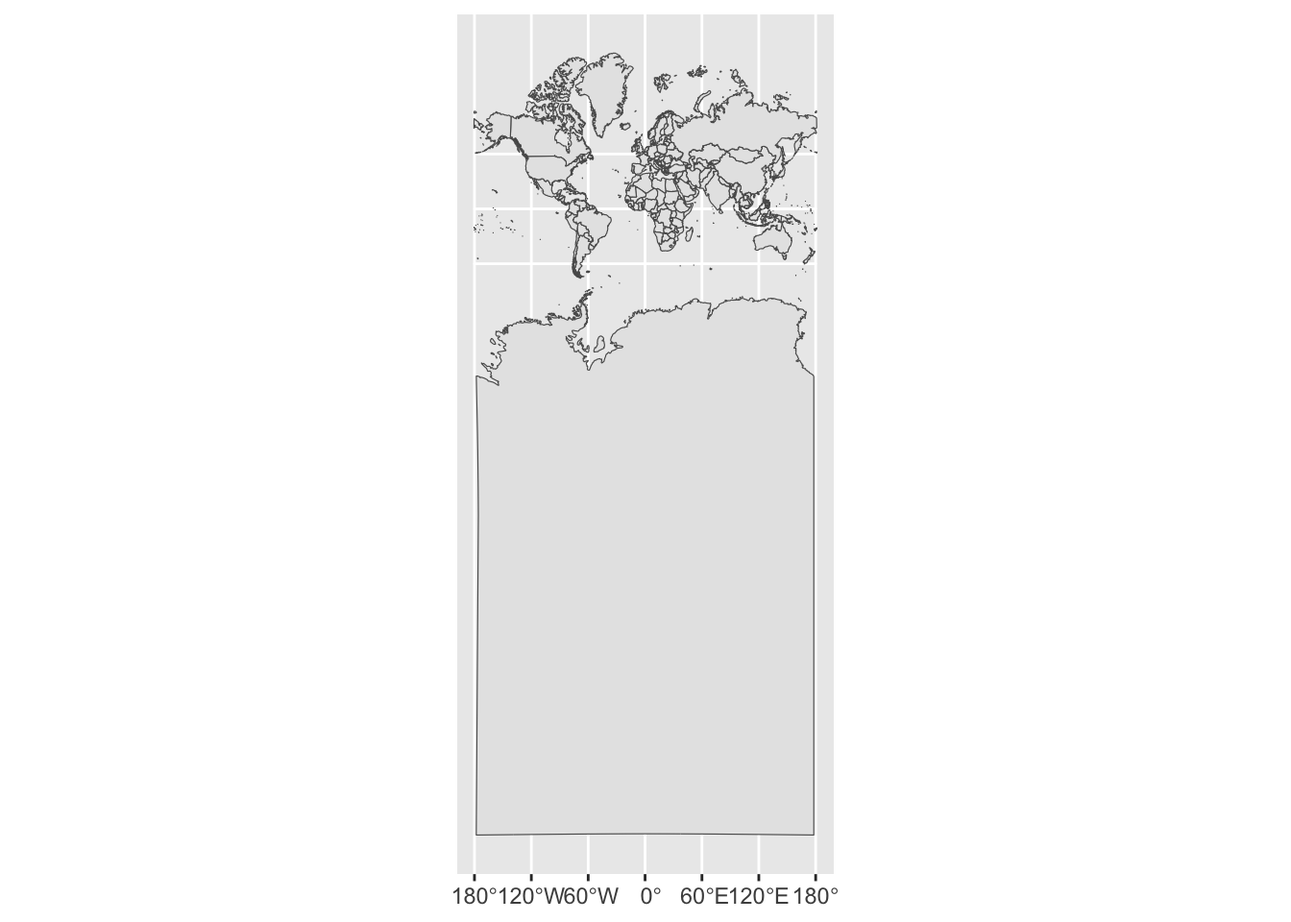
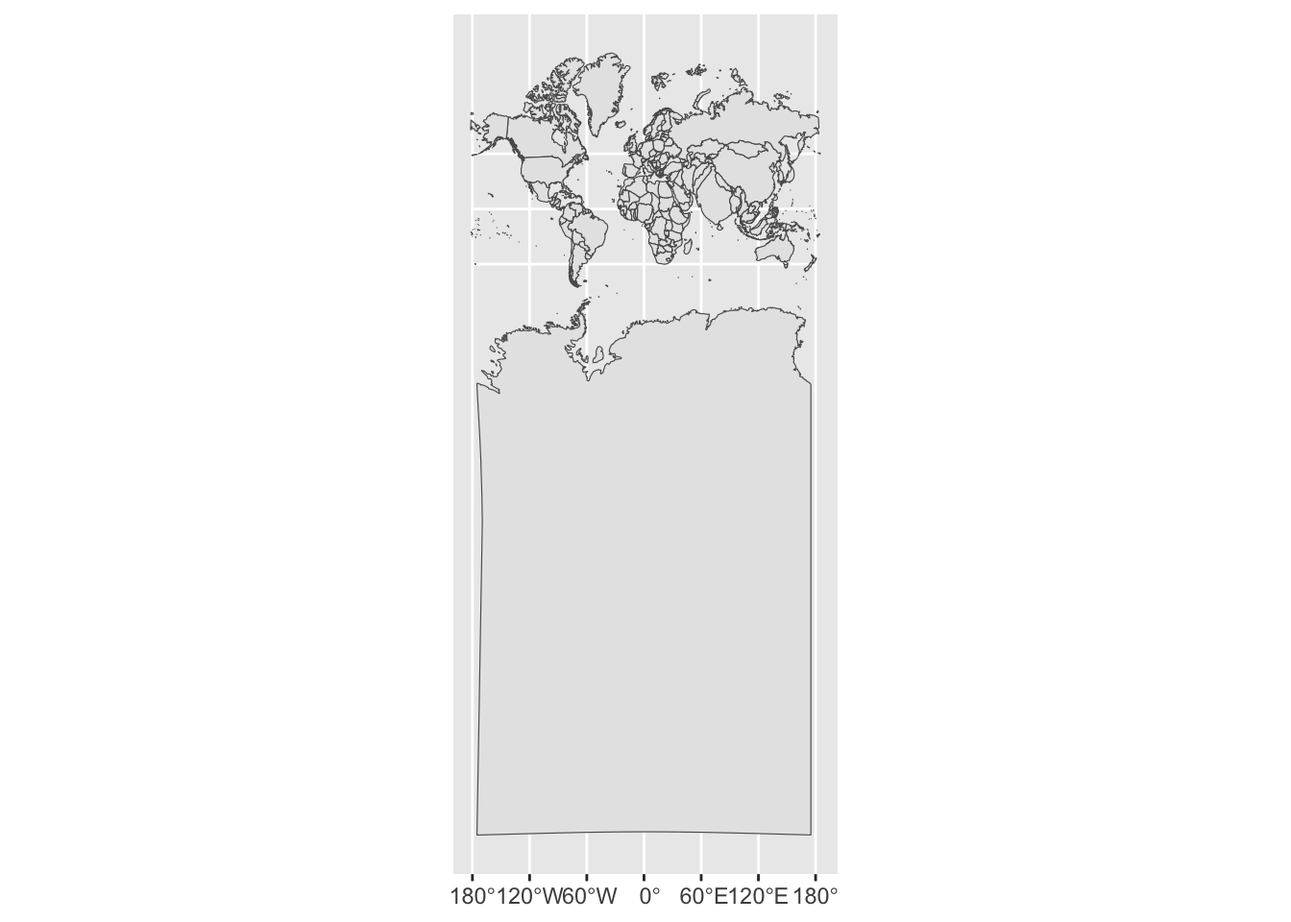
more iterations for cartogram

diff --git a/docs/cartogram.html b/docs/cartogram.html
@@ -370,13 +370,14 @@ pre > code.sourceCode > span > a:first-child::before { text-decoration: underlin
    
   <ul>
   <li><a href="#call-libraries" id="toc-call-libraries" class="nav-link active" data-scroll-target="#call-libraries"><span class="header-section-number">17.1</span> Call Libraries</a></li>
-  <li><a href="#get-map-data-from-rnaturalearth" id="toc-get-map-data-from-rnaturalearth" class="nav-link" data-scroll-target="#get-map-data-from-rnaturalearth"><span class="header-section-number">17.2</span> Get Map Data From <code>rnaturalearth</code></a></li>
-  <li><a href="#make-a-basic-map" id="toc-make-a-basic-map" class="nav-link" data-scroll-target="#make-a-basic-map"><span class="header-section-number">17.3</span> Make A Basic Map</a></li>
-  <li><a href="#make-and-plot-the-cartogram" id="toc-make-and-plot-the-cartogram" class="nav-link" data-scroll-target="#make-and-plot-the-cartogram"><span class="header-section-number">17.4</span> Make And Plot The Cartogram</a>
+  <li><a href="#remove-scientific-notation" id="toc-remove-scientific-notation" class="nav-link" data-scroll-target="#remove-scientific-notation"><span class="header-section-number">17.2</span> Remove Scientific Notation</a></li>
+  <li><a href="#get-map-data-from-rnaturalearth" id="toc-get-map-data-from-rnaturalearth" class="nav-link" data-scroll-target="#get-map-data-from-rnaturalearth"><span class="header-section-number">17.3</span> Get Map Data From <code>rnaturalearth</code></a></li>
+  <li><a href="#make-a-basic-map" id="toc-make-a-basic-map" class="nav-link" data-scroll-target="#make-a-basic-map"><span class="header-section-number">17.4</span> Make A Basic Map</a></li>
+  <li><a href="#make-and-plot-the-cartogram" id="toc-make-and-plot-the-cartogram" class="nav-link" data-scroll-target="#make-and-plot-the-cartogram"><span class="header-section-number">17.5</span> Make And Plot The Cartogram</a>
   <ul class="collapse">
-  <li><a href="#make-the-cartogram-data" id="toc-make-the-cartogram-data" class="nav-link" data-scroll-target="#make-the-cartogram-data"><span class="header-section-number">17.4.1</span> Make The Cartogram Data</a></li>
-  <li><a href="#basic-cartogram" id="toc-basic-cartogram" class="nav-link" data-scroll-target="#basic-cartogram"><span class="header-section-number">17.4.2</span> Basic Cartogram</a></li>
-  <li><a href="#more-advanced-cartogram" id="toc-more-advanced-cartogram" class="nav-link" data-scroll-target="#more-advanced-cartogram"><span class="header-section-number">17.4.3</span> More Advanced Cartogram</a></li>
+  <li><a href="#make-the-cartogram-data" id="toc-make-the-cartogram-data" class="nav-link" data-scroll-target="#make-the-cartogram-data"><span class="header-section-number">17.5.1</span> Make The Cartogram Data</a></li>
+  <li><a href="#basic-cartogram" id="toc-basic-cartogram" class="nav-link" data-scroll-target="#basic-cartogram"><span class="header-section-number">17.5.2</span> Basic Cartogram</a></li>
+  <li><a href="#more-advanced-cartogram" id="toc-more-advanced-cartogram" class="nav-link" data-scroll-target="#more-advanced-cartogram"><span class="header-section-number">17.5.3</span> More Advanced Cartogram</a></li>
   </ul></li>
   </ul>
 <div class="toc-actions"><ul><li><a href="https://github.com/agrogan1/mapping/issues/new" class="toc-action"><i class="bi bi-github"></i>Report an issue</a></li></ul></div></nav>
@@ -425,71 +426,77 @@ pre > code.sourceCode > span > a:first-child::before { text-decoration: underlin
 </details>
 </div>
 </section>
-<section id="get-map-data-from-rnaturalearth" class="level2" data-number="17.2">
-<h2 data-number="17.2" class="anchored" data-anchor-id="get-map-data-from-rnaturalearth"><span class="header-section-number">17.2</span> Get Map Data From <code>rnaturalearth</code></h2>
+<section id="remove-scientific-notation" class="level2" data-number="17.2">
+<h2 data-number="17.2" class="anchored" data-anchor-id="remove-scientific-notation"><span class="header-section-number">17.2</span> Remove Scientific Notation</h2>
+<div class="cell">
+<div class="sourceCode cell-code" id="cb2"><pre class="sourceCode r code-with-copy"><code class="sourceCode r"><span id="cb2-1"><a href="#cb2-1" aria-hidden="true" tabindex="-1"></a><span class="fu">options</span>(<span class="at">scipen =</span> <span class="dv">999</span>) <span class="co"># high 'penalty' for scientific notation</span></span></code><button title="Copy to Clipboard" class="code-copy-button"><i class="bi"></i></button></pre></div>
+</div>
+</section>
+<section id="get-map-data-from-rnaturalearth" class="level2" data-number="17.3">
+<h2 data-number="17.3" class="anchored" data-anchor-id="get-map-data-from-rnaturalearth"><span class="header-section-number">17.3</span> Get Map Data From <code>rnaturalearth</code></h2>
 <div class="cell">
 <details class="code-fold">
 <summary>Show the code</summary>
-<div class="sourceCode cell-code" id="cb2"><pre class="sourceCode r code-with-copy"><code class="sourceCode r"><span id="cb2-1"><a href="#cb2-1" aria-hidden="true" tabindex="-1"></a>mapdata <span class="ot">&lt;-</span> <span class="fu">ne_countries</span>(<span class="at">scale =</span> <span class="st">"medium"</span>, <span class="co"># medium scale</span></span>
-<span id="cb2-2"><a href="#cb2-2" aria-hidden="true" tabindex="-1"></a>                        <span class="at">returnclass =</span> <span class="st">"sf"</span>)  <span class="co"># as sf object</span></span></code><button title="Copy to Clipboard" class="code-copy-button"><i class="bi"></i></button></pre></div>
+<div class="sourceCode cell-code" id="cb3"><pre class="sourceCode r code-with-copy"><code class="sourceCode r"><span id="cb3-1"><a href="#cb3-1" aria-hidden="true" tabindex="-1"></a>mapdata <span class="ot">&lt;-</span> <span class="fu">ne_countries</span>(<span class="at">scale =</span> <span class="st">"medium"</span>, <span class="co"># medium scale</span></span>
+<span id="cb3-2"><a href="#cb3-2" aria-hidden="true" tabindex="-1"></a>                        <span class="at">returnclass =</span> <span class="st">"sf"</span>)  <span class="co"># as sf object</span></span></code><button title="Copy to Clipboard" class="code-copy-button"><i class="bi"></i></button></pre></div>
 </details>
 </div>
 </section>
-<section id="make-a-basic-map" class="level2" data-number="17.3">
-<h2 data-number="17.3" class="anchored" data-anchor-id="make-a-basic-map"><span class="header-section-number">17.3</span> Make A Basic Map</h2>
+<section id="make-a-basic-map" class="level2" data-number="17.4">
+<h2 data-number="17.4" class="anchored" data-anchor-id="make-a-basic-map"><span class="header-section-number">17.4</span> Make A Basic Map</h2>
 <p>We make a basic map, reading it into an object called <code>mymap.</code> We then <em>replay</em> <code>mymap.</code></p>
 <div class="cell">
 <details class="code-fold">
 <summary>Show the code</summary>
-<div class="sourceCode cell-code" id="cb3"><pre class="sourceCode r code-with-copy"><code class="sourceCode r"><span id="cb3-1"><a href="#cb3-1" aria-hidden="true" tabindex="-1"></a>mymap <span class="ot">&lt;-</span> <span class="fu">ggplot</span>(mapdata) <span class="sc">+</span> <span class="co"># the data I am mapping</span></span>
-<span id="cb3-2"><a href="#cb3-2" aria-hidden="true" tabindex="-1"></a>  <span class="fu">geom_sf</span>() <span class="co"># the geometry I am using</span></span>
-<span id="cb3-3"><a href="#cb3-3" aria-hidden="true" tabindex="-1"></a></span>
-<span id="cb3-4"><a href="#cb3-4" aria-hidden="true" tabindex="-1"></a>mymap <span class="co"># replay my map</span></span></code><button title="Copy to Clipboard" class="code-copy-button"><i class="bi"></i></button></pre></div>
+<div class="sourceCode cell-code" id="cb4"><pre class="sourceCode r code-with-copy"><code class="sourceCode r"><span id="cb4-1"><a href="#cb4-1" aria-hidden="true" tabindex="-1"></a>mymap <span class="ot">&lt;-</span> <span class="fu">ggplot</span>(mapdata) <span class="sc">+</span> <span class="co"># the data I am mapping</span></span>
+<span id="cb4-2"><a href="#cb4-2" aria-hidden="true" tabindex="-1"></a>  <span class="fu">geom_sf</span>() <span class="co"># the geometry I am using</span></span>
+<span id="cb4-3"><a href="#cb4-3" aria-hidden="true" tabindex="-1"></a></span>
+<span id="cb4-4"><a href="#cb4-4" aria-hidden="true" tabindex="-1"></a>mymap <span class="co"># replay my map</span></span></code><button title="Copy to Clipboard" class="code-copy-button"><i class="bi"></i></button></pre></div>
 </details>
 <div class="cell-output-display">
 <div>
 <figure class="figure">
-<p><a href="cartogram_files/figure-html/unnamed-chunk-3-1.png" class="lightbox" data-gallery="quarto-lightbox-gallery-1"><img src="cartogram_files/figure-html/unnamed-chunk-3-1.png" class="img-fluid figure-img" width="672"></a></p>
+<p><a href="cartogram_files/figure-html/unnamed-chunk-4-1.png" class="lightbox" data-gallery="quarto-lightbox-gallery-1"><img src="cartogram_files/figure-html/unnamed-chunk-4-1.png" class="img-fluid figure-img" width="672"></a></p>
 </figure>
 </div>
 </div>
 </div>
 </section>
-<section id="make-and-plot-the-cartogram" class="level2" data-number="17.4">
-<h2 data-number="17.4" class="anchored" data-anchor-id="make-and-plot-the-cartogram"><span class="header-section-number">17.4</span> Make And Plot The Cartogram</h2>
-<section id="make-the-cartogram-data" class="level3" data-number="17.4.1">
-<h3 data-number="17.4.1" class="anchored" data-anchor-id="make-the-cartogram-data"><span class="header-section-number">17.4.1</span> Make The Cartogram Data</h3>
+<section id="make-and-plot-the-cartogram" class="level2" data-number="17.5">
+<h2 data-number="17.5" class="anchored" data-anchor-id="make-and-plot-the-cartogram"><span class="header-section-number">17.5</span> Make And Plot The Cartogram</h2>
+<section id="make-the-cartogram-data" class="level3" data-number="17.5.1">
+<h3 data-number="17.5.1" class="anchored" data-anchor-id="make-the-cartogram-data"><span class="header-section-number">17.5.1</span> Make The Cartogram Data</h3>
 <div class="cell">
 <details class="code-fold">
 <summary>Show the code</summary>
-<div class="sourceCode cell-code" id="cb4"><pre class="sourceCode r code-with-copy"><code class="sourceCode r"><span id="cb4-1"><a href="#cb4-1" aria-hidden="true" tabindex="-1"></a>mapdata_merc <span class="ot">&lt;-</span> <span class="fu">st_transform</span>(mapdata, </span>
-<span id="cb4-2"><a href="#cb4-2" aria-hidden="true" tabindex="-1"></a>                             <span class="dv">3857</span>) <span class="co"># transform to Mercator</span></span>
-<span id="cb4-3"><a href="#cb4-3" aria-hidden="true" tabindex="-1"></a></span>
-<span id="cb4-4"><a href="#cb4-4" aria-hidden="true" tabindex="-1"></a><span class="co"># make a cartogram</span></span>
-<span id="cb4-5"><a href="#cb4-5" aria-hidden="true" tabindex="-1"></a><span class="co"># each iteration takes a LONG time; fewer iterations help</span></span>
-<span id="cb4-6"><a href="#cb4-6" aria-hidden="true" tabindex="-1"></a></span>
-<span id="cb4-7"><a href="#cb4-7" aria-hidden="true" tabindex="-1"></a>mapdata_cartogram <span class="ot">&lt;-</span> <span class="fu">cartogram_cont</span>(mapdata_merc, </span>
-<span id="cb4-8"><a href="#cb4-8" aria-hidden="true" tabindex="-1"></a>                                  <span class="st">"pop_est"</span>, </span>
-<span id="cb4-9"><a href="#cb4-9" aria-hidden="true" tabindex="-1"></a>                                  <span class="at">itermax =</span> <span class="dv">2</span>)</span></code><button title="Copy to Clipboard" class="code-copy-button"><i class="bi"></i></button></pre></div>
+<div class="sourceCode cell-code" id="cb5"><pre class="sourceCode r code-with-copy"><code class="sourceCode r"><span id="cb5-1"><a href="#cb5-1" aria-hidden="true" tabindex="-1"></a>mapdata_merc <span class="ot">&lt;-</span> <span class="fu">st_transform</span>(mapdata, </span>
+<span id="cb5-2"><a href="#cb5-2" aria-hidden="true" tabindex="-1"></a>                             <span class="dv">3857</span>) <span class="co"># transform to Mercator</span></span>
+<span id="cb5-3"><a href="#cb5-3" aria-hidden="true" tabindex="-1"></a></span>
+<span id="cb5-4"><a href="#cb5-4" aria-hidden="true" tabindex="-1"></a><span class="co"># make a cartogram</span></span>
+<span id="cb5-5"><a href="#cb5-5" aria-hidden="true" tabindex="-1"></a><span class="co"># each iteration takes a LONG time; fewer iterations help</span></span>
+<span id="cb5-6"><a href="#cb5-6" aria-hidden="true" tabindex="-1"></a></span>
+<span id="cb5-7"><a href="#cb5-7" aria-hidden="true" tabindex="-1"></a>mapdata_cartogram <span class="ot">&lt;-</span> <span class="fu">cartogram_cont</span>(mapdata_merc, </span>
+<span id="cb5-8"><a href="#cb5-8" aria-hidden="true" tabindex="-1"></a>                                  <span class="st">"pop_est"</span>, </span>
+<span id="cb5-9"><a href="#cb5-9" aria-hidden="true" tabindex="-1"></a>                                  <span class="at">itermax =</span> <span class="dv">5</span>)</span></code><button title="Copy to Clipboard" class="code-copy-button"><i class="bi"></i></button></pre></div>
 </details>
 <div class="cell-output cell-output-stderr">
-<pre><code>Warning in cartogram_cont.sf(mapdata_merc, "pop_est", itermax = 2): NA not
+<pre><code>Warning in cartogram_cont.sf(mapdata_merc, "pop_est", itermax = 5): NA not
 allowed in weight vector. Features will be removed from Shape.</code></pre>
 </div>
 </div>
 </section>
-<section id="basic-cartogram" class="level3" data-number="17.4.2">
-<h3 data-number="17.4.2" class="anchored" data-anchor-id="basic-cartogram"><span class="header-section-number">17.4.2</span> Basic Cartogram</h3>
+<section id="basic-cartogram" class="level3" data-number="17.5.2">
+<h3 data-number="17.5.2" class="anchored" data-anchor-id="basic-cartogram"><span class="header-section-number">17.5.2</span> Basic Cartogram</h3>
 <div class="cell">
 <details class="code-fold">
 <summary>Show the code</summary>
-<div class="sourceCode cell-code" id="cb6"><pre class="sourceCode r code-with-copy"><code class="sourceCode r"><span id="cb6-1"><a href="#cb6-1" aria-hidden="true" tabindex="-1"></a><span class="fu">ggplot</span>(mapdata_cartogram) <span class="sc">+</span> </span>
-<span id="cb6-2"><a href="#cb6-2" aria-hidden="true" tabindex="-1"></a>  <span class="fu">geom_sf</span>()</span></code><button title="Copy to Clipboard" class="code-copy-button"><i class="bi"></i></button></pre></div>
+<div class="sourceCode cell-code" id="cb7"><pre class="sourceCode r code-with-copy"><code class="sourceCode r"><span id="cb7-1"><a href="#cb7-1" aria-hidden="true" tabindex="-1"></a><span class="fu">ggplot</span>(mapdata_cartogram) <span class="sc">+</span> </span>
+<span id="cb7-2"><a href="#cb7-2" aria-hidden="true" tabindex="-1"></a>  <span class="fu">geom_sf</span>()</span></code><button title="Copy to Clipboard" class="code-copy-button"><i class="bi"></i></button></pre></div>
 </details>
 <div class="cell-output-display">
 <div>
 <figure class="figure">
-<p><a href="cartogram_files/figure-html/unnamed-chunk-5-1.png" class="lightbox" data-gallery="quarto-lightbox-gallery-2"><img src="cartogram_files/figure-html/unnamed-chunk-5-1.png" class="img-fluid figure-img" width="672"></a></p>
+<p><a href="cartogram_files/figure-html/unnamed-chunk-6-1.png" class="lightbox" data-gallery="quarto-lightbox-gallery-2"><img src="cartogram_files/figure-html/unnamed-chunk-6-1.png" class="img-fluid figure-img" width="672"></a></p>
 </figure>
 </div>
 </div>
@@ -504,30 +511,30 @@ Why Does Antarctica Look So Strange? How To Fix This?
 </div>
 </div>
 <div class="callout-body-container callout-body">
-<p>The key is to run this code to remove Antarctica.</p>
+<p>The key is to run this <code>dplyr</code> code to remove Antarctica.</p>
 <div class="cell">
 <details class="code-fold">
 <summary>Show the code</summary>
-<div class="sourceCode cell-code" id="cb7"><pre class="sourceCode r code-with-copy"><code class="sourceCode r"><span id="cb7-1"><a href="#cb7-1" aria-hidden="true" tabindex="-1"></a>mapdata_cartogram <span class="ot">&lt;-</span> mapdata_cartogram <span class="sc">%&gt;%</span> </span>
-<span id="cb7-2"><a href="#cb7-2" aria-hidden="true" tabindex="-1"></a>  dplyr<span class="sc">::</span><span class="fu">filter</span>(<span class="sc">!</span> continent <span class="sc">==</span> <span class="st">"Antarctica"</span>)</span></code><button title="Copy to Clipboard" class="code-copy-button"><i class="bi"></i></button></pre></div>
+<div class="sourceCode cell-code" id="cb8"><pre class="sourceCode r code-with-copy"><code class="sourceCode r"><span id="cb8-1"><a href="#cb8-1" aria-hidden="true" tabindex="-1"></a>mapdata_cartogram <span class="ot">&lt;-</span> mapdata_cartogram <span class="sc">%&gt;%</span> </span>
+<span id="cb8-2"><a href="#cb8-2" aria-hidden="true" tabindex="-1"></a>  dplyr<span class="sc">::</span><span class="fu">filter</span>(<span class="sc">!</span> continent <span class="sc">==</span> <span class="st">"Antarctica"</span>)</span></code><button title="Copy to Clipboard" class="code-copy-button"><i class="bi"></i></button></pre></div>
 </details>
 </div>
 </div>
 </div>
 </section>
-<section id="more-advanced-cartogram" class="level3" data-number="17.4.3">
-<h3 data-number="17.4.3" class="anchored" data-anchor-id="more-advanced-cartogram"><span class="header-section-number">17.4.3</span> More Advanced Cartogram</h3>
+<section id="more-advanced-cartogram" class="level3" data-number="17.5.3">
+<h3 data-number="17.5.3" class="anchored" data-anchor-id="more-advanced-cartogram"><span class="header-section-number">17.5.3</span> More Advanced Cartogram</h3>
 <div class="cell">
 <details class="code-fold">
 <summary>Show the code</summary>
-<div class="sourceCode cell-code" id="cb8"><pre class="sourceCode r code-with-copy"><code class="sourceCode r"><span id="cb8-1"><a href="#cb8-1" aria-hidden="true" tabindex="-1"></a><span class="fu">ggplot</span>(mapdata_cartogram) <span class="sc">+</span> </span>
-<span id="cb8-2"><a href="#cb8-2" aria-hidden="true" tabindex="-1"></a>  <span class="fu">geom_sf</span>(<span class="fu">aes</span>(<span class="at">fill =</span> pop_est)) <span class="sc">+</span> <span class="co"># fill is population estimate</span></span>
-<span id="cb8-3"><a href="#cb8-3" aria-hidden="true" tabindex="-1"></a>  <span class="fu">scale_fill_viridis_c</span>(<span class="at">name =</span> <span class="st">"population"</span>) <span class="co"># beautiful colors</span></span></code><button title="Copy to Clipboard" class="code-copy-button"><i class="bi"></i></button></pre></div>
+<div class="sourceCode cell-code" id="cb9"><pre class="sourceCode r code-with-copy"><code class="sourceCode r"><span id="cb9-1"><a href="#cb9-1" aria-hidden="true" tabindex="-1"></a><span class="fu">ggplot</span>(mapdata_cartogram) <span class="sc">+</span> </span>
+<span id="cb9-2"><a href="#cb9-2" aria-hidden="true" tabindex="-1"></a>  <span class="fu">geom_sf</span>(<span class="fu">aes</span>(<span class="at">fill =</span> pop_est)) <span class="sc">+</span> <span class="co"># fill is population estimate</span></span>
+<span id="cb9-3"><a href="#cb9-3" aria-hidden="true" tabindex="-1"></a>  <span class="fu">scale_fill_viridis_c</span>(<span class="at">name =</span> <span class="st">"population"</span>) <span class="co"># beautiful colors</span></span></code><button title="Copy to Clipboard" class="code-copy-button"><i class="bi"></i></button></pre></div>
 </details>
 <div class="cell-output-display">
 <div>
 <figure class="figure">
-<p><a href="cartogram_files/figure-html/unnamed-chunk-7-1.png" class="lightbox" data-gallery="quarto-lightbox-gallery-3"><img src="cartogram_files/figure-html/unnamed-chunk-7-1.png" class="img-fluid figure-img" width="672"></a></p>
+<p><a href="cartogram_files/figure-html/unnamed-chunk-8-1.png" class="lightbox" data-gallery="quarto-lightbox-gallery-3"><img src="cartogram_files/figure-html/unnamed-chunk-8-1.png" class="img-fluid figure-img" width="672"></a></p>
 </figure>
 </div>
 </div>
@@ -1082,7 +1089,7 @@ window.document.addEventListener("DOMContentLoaded", function (event) {
   </div>
 </nav>
 </div> <!-- /content -->
-<footer class="footer"><div class="nav-footer"><div class="nav-footer-center"><div class="toc-actions d-sm-block d-md-none"><ul><li><a href="https://github.com/agrogan1/mapping/issues/new" class="toc-action"><i class="bi bi-github"></i>Report an issue</a></li></ul></div></div></div></footer><script>var lightboxQuarto = GLightbox({"descPosition":"bottom","loop":false,"selector":".lightbox","openEffect":"zoom","closeEffect":"zoom"});
+<footer class="footer"><div class="nav-footer"><div class="nav-footer-center"><div class="toc-actions d-sm-block d-md-none"><ul><li><a href="https://github.com/agrogan1/mapping/issues/new" class="toc-action"><i class="bi bi-github"></i>Report an issue</a></li></ul></div></div></div></footer><script>var lightboxQuarto = GLightbox({"selector":".lightbox","closeEffect":"zoom","openEffect":"zoom","loop":false,"descPosition":"bottom"});
 window.onload = () => {
   lightboxQuarto.on('slide_before_load', (data) => {
     const { slideIndex, slideNode, slideConfig, player, trigger } = data;

diff --git a/docs/symbology.html b/docs/symbology.html
@@ -478,7 +478,7 @@ Note
 <div class="cell-output-display">
 <div class="quarto-figure quarto-figure-center">
 <figure class="figure">
-<p><a href="symbology_files/figure-html/unnamed-chunk-1-1.png" class="lightbox" data-glightbox="description: .lightbox-desc-1" data-gallery="quarto-lightbox-gallery-1" title="Heatmap Colors"><img src="symbology_files/figure-html/unnamed-chunk-1-1.png" class="img-fluid figure-img" width="672" alt="Heatmap Colors"></a></p>
+<p><a href="symbology_files/figure-html/unnamed-chunk-1-1.png" class="lightbox" data-gallery="quarto-lightbox-gallery-1" data-glightbox="description: .lightbox-desc-1" title="Heatmap Colors"><img src="symbology_files/figure-html/unnamed-chunk-1-1.png" class="img-fluid figure-img" width="672" alt="Heatmap Colors"></a></p>
 <figcaption>Heatmap Colors</figcaption>
 </figure>
 </div>
@@ -492,7 +492,7 @@ Note
 <div class="cell-output-display">
 <div class="quarto-figure quarto-figure-center">
 <figure class="figure">
-<p><a href="symbology_files/figure-html/unnamed-chunk-2-1.png" class="lightbox" data-glightbox="description: .lightbox-desc-2" data-gallery="quarto-lightbox-gallery-2" title="Topographical Colors"><img src="symbology_files/figure-html/unnamed-chunk-2-1.png" class="img-fluid figure-img" width="672" alt="Topographical Colors"></a></p>
+<p><a href="symbology_files/figure-html/unnamed-chunk-2-1.png" class="lightbox" data-gallery="quarto-lightbox-gallery-2" data-glightbox="description: .lightbox-desc-2" title="Topographical Colors"><img src="symbology_files/figure-html/unnamed-chunk-2-1.png" class="img-fluid figure-img" width="672" alt="Topographical Colors"></a></p>
 <figcaption>Topographical Colors</figcaption>
 </figure>
 </div>
@@ -506,7 +506,7 @@ Note
 <div class="cell-output-display">
 <div class="quarto-figure quarto-figure-center">
 <figure class="figure">
-<p><a href="symbology_files/figure-html/unnamed-chunk-3-1.png" class="lightbox" data-glightbox="description: .lightbox-desc-3" data-gallery="quarto-lightbox-gallery-3" title="Terrain Colors"><img src="symbology_files/figure-html/unnamed-chunk-3-1.png" class="img-fluid figure-img" width="672" alt="Terrain Colors"></a></p>
+<p><a href="symbology_files/figure-html/unnamed-chunk-3-1.png" class="lightbox" data-gallery="quarto-lightbox-gallery-3" data-glightbox="description: .lightbox-desc-3" title="Terrain Colors"><img src="symbology_files/figure-html/unnamed-chunk-3-1.png" class="img-fluid figure-img" width="672" alt="Terrain Colors"></a></p>
 <figcaption>Terrain Colors</figcaption>
 </figure>
 </div>
@@ -529,7 +529,7 @@ Note
 <div class="cell-output-display">
 <div class="quarto-figure quarto-figure-center">
 <figure class="figure">
-<p><a href="symbology_files/figure-html/unnamed-chunk-5-1.png" class="lightbox" data-glightbox="description: .lightbox-desc-4" data-gallery="quarto-lightbox-gallery-4" title="Blues Palette"><img src="symbology_files/figure-html/unnamed-chunk-5-1.png" class="img-fluid figure-img" width="672" alt="Blues Palette"></a></p>
+<p><a href="symbology_files/figure-html/unnamed-chunk-5-1.png" class="lightbox" data-gallery="quarto-lightbox-gallery-4" data-glightbox="description: .lightbox-desc-4" title="Blues Palette"><img src="symbology_files/figure-html/unnamed-chunk-5-1.png" class="img-fluid figure-img" width="672" alt="Blues Palette"></a></p>
 <figcaption>Blues Palette</figcaption>
 </figure>
 </div>
@@ -543,7 +543,7 @@ Note
 <div class="cell-output-display">
 <div class="quarto-figure quarto-figure-center">
 <figure class="figure">
-<p><a href="symbology_files/figure-html/unnamed-chunk-6-1.png" class="lightbox" data-glightbox="description: .lightbox-desc-5" data-gallery="quarto-lightbox-gallery-5" title="Spectral Palette"><img src="symbology_files/figure-html/unnamed-chunk-6-1.png" class="img-fluid figure-img" width="672" alt="Spectral Palette"></a></p>
+<p><a href="symbology_files/figure-html/unnamed-chunk-6-1.png" class="lightbox" data-gallery="quarto-lightbox-gallery-5" data-glightbox="description: .lightbox-desc-5" title="Spectral Palette"><img src="symbology_files/figure-html/unnamed-chunk-6-1.png" class="img-fluid figure-img" width="672" alt="Spectral Palette"></a></p>
 <figcaption>Spectral Palette</figcaption>
 </figure>
 </div>
@@ -557,7 +557,7 @@ Note
 <div class="cell-output-display">
 <div class="quarto-figure quarto-figure-center">
 <figure class="figure">
-<p><a href="symbology_files/figure-html/unnamed-chunk-7-1.png" class="lightbox" data-glightbox="description: .lightbox-desc-6" data-gallery="quarto-lightbox-gallery-6" title="Set1 Palette"><img src="symbology_files/figure-html/unnamed-chunk-7-1.png" class="img-fluid figure-img" width="672" alt="Set1 Palette"></a></p>
+<p><a href="symbology_files/figure-html/unnamed-chunk-7-1.png" class="lightbox" data-gallery="quarto-lightbox-gallery-6" data-glightbox="description: .lightbox-desc-6" title="Set1 Palette"><img src="symbology_files/figure-html/unnamed-chunk-7-1.png" class="img-fluid figure-img" width="672" alt="Set1 Palette"></a></p>
 <figcaption>Set1 Palette</figcaption>
 </figure>
 </div>
@@ -1186,7 +1186,7 @@ window.document.addEventListener("DOMContentLoaded", function (event) {
   </div>
 </nav>
 </div> <!-- /content -->
-<footer class="footer"><div class="nav-footer"><div class="nav-footer-center"><div class="toc-actions d-sm-block d-md-none"><ul><li><a href="https://github.com/agrogan1/mapping/issues/new" class="toc-action"><i class="bi bi-github"></i>Report an issue</a></li></ul></div></div></div></footer><script>var lightboxQuarto = GLightbox({"loop":false,"openEffect":"zoom","selector":".lightbox","descPosition":"bottom","closeEffect":"zoom"});
+<footer class="footer"><div class="nav-footer"><div class="nav-footer-center"><div class="toc-actions d-sm-block d-md-none"><ul><li><a href="https://github.com/agrogan1/mapping/issues/new" class="toc-action"><i class="bi bi-github"></i>Report an issue</a></li></ul></div></div></div></footer><script>var lightboxQuarto = GLightbox({"selector":".lightbox","closeEffect":"zoom","loop":false,"descPosition":"bottom","openEffect":"zoom"});
 window.onload = () => {
   lightboxQuarto.on('slide_before_load', (data) => {
     const { slideIndex, slideNode, slideConfig, player, trigger } = data;

diff --git a/docs/index.html b/docs/index.html
@@ -7,7 +7,7 @@
 <meta name="viewport" content="width=device-width, initial-scale=1.0, user-scalable=yes">
 
 <meta name="author" content="Andrew Grogan-Kaylor">
-<meta name="dcterms.date" content="2024-08-21">
+<meta name="dcterms.date" content="2024-09-07">
 
 <title>Mapping</title>
 <style>
@@ -93,10 +93,10 @@ ul.task-list li input[type="checkbox"] {
 <meta name="twitter:card" content="summary">
 <meta name="citation_title" content="Mapping">
 <meta name="citation_author" content="Andrew Grogan-Kaylor">
-<meta name="citation_publication_date" content="2024-08-21">
-<meta name="citation_cover_date" content="2024-08-21">
+<meta name="citation_publication_date" content="2024-09-07">
+<meta name="citation_cover_date" content="2024-09-07">
 <meta name="citation_year" content="2024">
-<meta name="citation_online_date" content="2024-08-21">
+<meta name="citation_online_date" content="2024-09-07">
 <meta name="citation_fulltext_html_url" content="https://agrogan1.github.io/mapping/">
 <meta name="citation_language" content="en">
 </head>
@@ -376,7 +376,7 @@ ul.task-list li input[type="checkbox"] {
     <div>
     <div class="quarto-title-meta-heading">Published</div>
     <div class="quarto-title-meta-contents">
-      <p class="date">August 21, 2024</p>
+      <p class="date">September 7, 2024</p>
     </div>
   </div>
   

diff --git a/docs/crs.html b/docs/crs.html
@@ -1043,7 +1043,7 @@ window.document.addEventListener("DOMContentLoaded", function (event) {
   </div>
 </nav>
 </div> <!-- /content -->
-<footer class="footer"><div class="nav-footer"><div class="nav-footer-center"><div class="toc-actions d-sm-block d-md-none"><ul><li><a href="https://github.com/agrogan1/mapping/issues/new" class="toc-action"><i class="bi bi-github"></i>Report an issue</a></li></ul></div></div></div></footer><script>var lightboxQuarto = GLightbox({"closeEffect":"zoom","openEffect":"zoom","selector":".lightbox","loop":false,"descPosition":"bottom"});
+<footer class="footer"><div class="nav-footer"><div class="nav-footer-center"><div class="toc-actions d-sm-block d-md-none"><ul><li><a href="https://github.com/agrogan1/mapping/issues/new" class="toc-action"><i class="bi bi-github"></i>Report an issue</a></li></ul></div></div></div></footer><script>var lightboxQuarto = GLightbox({"loop":false,"closeEffect":"zoom","descPosition":"bottom","selector":".lightbox","openEffect":"zoom"});
 window.onload = () => {
   lightboxQuarto.on('slide_before_load', (data) => {
     const { slideIndex, slideNode, slideConfig, player, trigger } = data;

diff --git a/docs/ggplot-map.html b/docs/ggplot-map.html
@@ -1046,7 +1046,7 @@ window.document.addEventListener("DOMContentLoaded", function (event) {
   </div>
 </nav>
 </div> <!-- /content -->
-<footer class="footer"><div class="nav-footer"><div class="nav-footer-center"><div class="toc-actions d-sm-block d-md-none"><ul><li><a href="https://github.com/agrogan1/mapping/issues/new" class="toc-action"><i class="bi bi-github"></i>Report an issue</a></li></ul></div></div></div></footer><script>var lightboxQuarto = GLightbox({"selector":".lightbox","openEffect":"zoom","loop":false,"descPosition":"bottom","closeEffect":"zoom"});
+<footer class="footer"><div class="nav-footer"><div class="nav-footer-center"><div class="toc-actions d-sm-block d-md-none"><ul><li><a href="https://github.com/agrogan1/mapping/issues/new" class="toc-action"><i class="bi bi-github"></i>Report an issue</a></li></ul></div></div></div></footer><script>var lightboxQuarto = GLightbox({"descPosition":"bottom","loop":false,"openEffect":"zoom","selector":".lightbox","closeEffect":"zoom"});
 window.onload = () => {
   lightboxQuarto.on('slide_before_load', (data) => {
     const { slideIndex, slideNode, slideConfig, player, trigger } = data;

diff --git a/docs/merge-with-external-data.html b/docs/merge-with-external-data.html
@@ -1063,7 +1063,7 @@ window.document.addEventListener("DOMContentLoaded", function (event) {
   </div>
 </nav>
 </div> <!-- /content -->
-<footer class="footer"><div class="nav-footer"><div class="nav-footer-center"><div class="toc-actions d-sm-block d-md-none"><ul><li><a href="https://github.com/agrogan1/mapping/issues/new" class="toc-action"><i class="bi bi-github"></i>Report an issue</a></li></ul></div></div></div></footer><script>var lightboxQuarto = GLightbox({"loop":false,"descPosition":"bottom","closeEffect":"zoom","selector":".lightbox","openEffect":"zoom"});
+<footer class="footer"><div class="nav-footer"><div class="nav-footer-center"><div class="toc-actions d-sm-block d-md-none"><ul><li><a href="https://github.com/agrogan1/mapping/issues/new" class="toc-action"><i class="bi bi-github"></i>Report an issue</a></li></ul></div></div></div></footer><script>var lightboxQuarto = GLightbox({"openEffect":"zoom","selector":".lightbox","descPosition":"bottom","loop":false,"closeEffect":"zoom"});
 window.onload = () => {
   lightboxQuarto.on('slide_before_load', (data) => {
     const { slideIndex, slideNode, slideConfig, player, trigger } = data;

diff --git a/docs/rnaturalearth.html b/docs/rnaturalearth.html
@@ -1019,7 +1019,7 @@ window.document.addEventListener("DOMContentLoaded", function (event) {
   </div>
 </nav>
 </div> <!-- /content -->
-<footer class="footer"><div class="nav-footer"><div class="nav-footer-center"><div class="toc-actions d-sm-block d-md-none"><ul><li><a href="https://github.com/agrogan1/mapping/issues/new" class="toc-action"><i class="bi bi-github"></i>Report an issue</a></li></ul></div></div></div></footer><script>var lightboxQuarto = GLightbox({"selector":".lightbox","closeEffect":"zoom","descPosition":"bottom","openEffect":"zoom","loop":false});
+<footer class="footer"><div class="nav-footer"><div class="nav-footer-center"><div class="toc-actions d-sm-block d-md-none"><ul><li><a href="https://github.com/agrogan1/mapping/issues/new" class="toc-action"><i class="bi bi-github"></i>Report an issue</a></li></ul></div></div></div></footer><script>var lightboxQuarto = GLightbox({"openEffect":"zoom","selector":".lightbox","closeEffect":"zoom","descPosition":"bottom","loop":false});
 window.onload = () => {
   lightboxQuarto.on('slide_before_load', (data) => {
     const { slideIndex, slideNode, slideConfig, player, trigger } = data;

diff --git a/docs/shapefiles.html b/docs/shapefiles.html
@@ -1038,7 +1038,7 @@ window.document.addEventListener("DOMContentLoaded", function (event) {
   </div>
 </nav>
 </div> <!-- /content -->
-<footer class="footer"><div class="nav-footer"><div class="nav-footer-center"><div class="toc-actions d-sm-block d-md-none"><ul><li><a href="https://github.com/agrogan1/mapping/issues/new" class="toc-action"><i class="bi bi-github"></i>Report an issue</a></li></ul></div></div></div></footer><script>var lightboxQuarto = GLightbox({"selector":".lightbox","openEffect":"zoom","loop":false,"closeEffect":"zoom","descPosition":"bottom"});
+<footer class="footer"><div class="nav-footer"><div class="nav-footer-center"><div class="toc-actions d-sm-block d-md-none"><ul><li><a href="https://github.com/agrogan1/mapping/issues/new" class="toc-action"><i class="bi bi-github"></i>Report an issue</a></li></ul></div></div></div></footer><script>var lightboxQuarto = GLightbox({"loop":false,"openEffect":"zoom","closeEffect":"zoom","selector":".lightbox","descPosition":"bottom"});
 window.onload = () => {
   lightboxQuarto.on('slide_before_load', (data) => {
     const { slideIndex, slideNode, slideConfig, player, trigger } = data;
